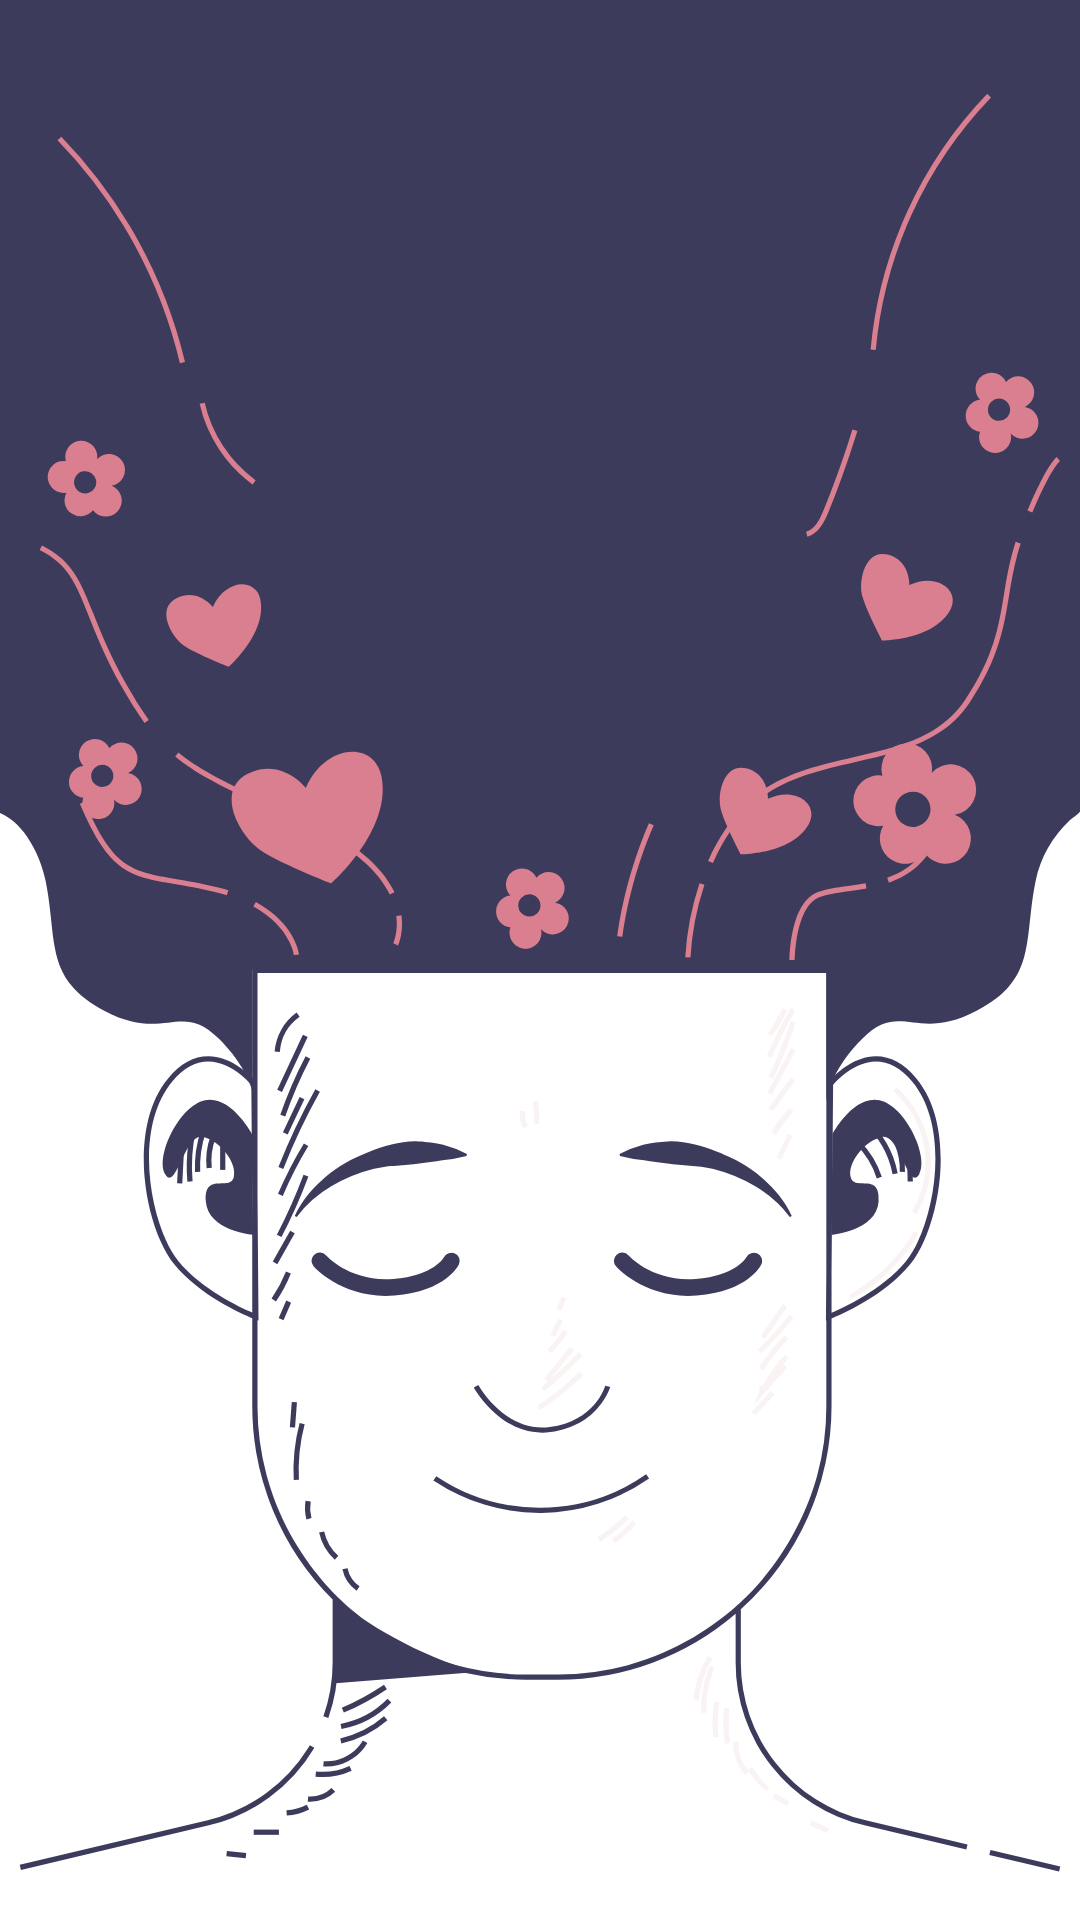
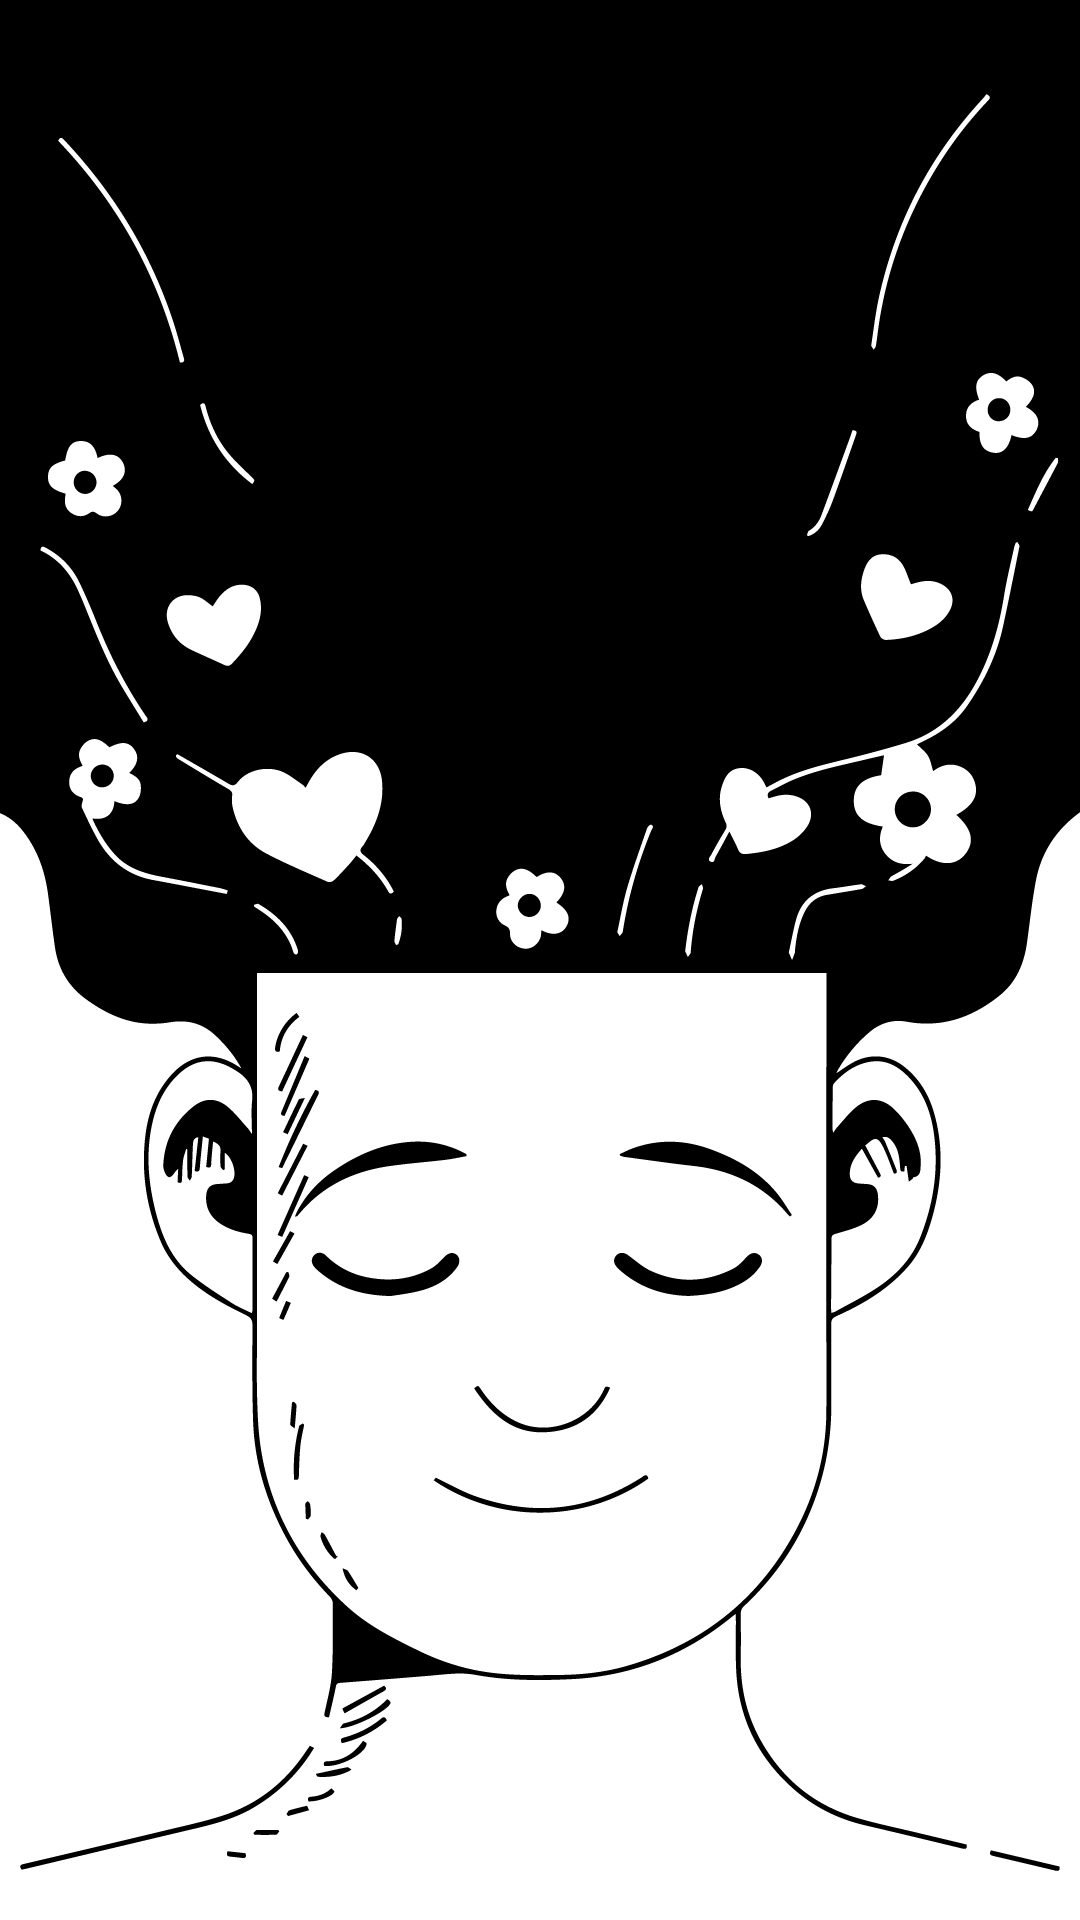
das

diff --git a/src/components/Pages/LandingPage/LandingPage.tsx b/src/components/Pages/LandingPage/LandingPage.tsx
@@ -17,12 +17,12 @@ export default function LandingPage() {
         <HeroSection />
         <HowSection />
         <CardsSection />
+        {/* <HappySadSection /> */}
         <FreeSection />
         <Free2Section />
         <CtaSection />
         <FaqSection />
         {/* <TabSection /> */}
-        {/* <HappySadSection /> */}
       </main>
     </>
   );

diff --git a/src/components/Pages/LandingPage/HappySadSection.tsx b/src/components/Pages/LandingPage/HappySadSection.tsx
@@ -14,7 +14,7 @@ function HappySadSection() {
       </div>
       <div className=" flex w-1/2  items-end justify-center bg-accent text-accent-foreground">
         <Image
-          src={"/happy.png"}
+          src={"/sad2.png"}
           width={450}
           height={1}
           alt="sad person with a lot of terrible thoughts on his mind"

diff --git a/src/app/app/settings/page.tsx b/src/app/app/settings/page.tsx
@@ -1,6 +1,6 @@
 import React from 'react'
 
-export default function Home() {
+export default function Settings() {
   return (
     <div>settings</div>
   )

diff --git a/src/app/app/notifications/page.tsx b/src/app/app/notifications/page.tsx
@@ -1,0 +1,8 @@
+import React from 'react'
+
+export default function Notifications() {
+  return (
+    <div>Notifications</div>
+  )
+}
+

diff --git a/src/app/app/activities/page.tsx b/src/app/app/activities/page.tsx
@@ -1,0 +1,7 @@
+import React from 'react'
+
+export default function Activities() {
+  return (
+    <div>Activities</div>
+  )
+}

diff --git a/src/app/layout.tsx b/src/app/layout.tsx
@@ -1,3 +1,5 @@
+import './globals.css'
+
 export const metadata = {
   title: 'Next.js',
   description: 'Generated by Next.js',

diff --git a/src/app/app/doctors/page.tsx b/src/app/app/doctors/page.tsx
@@ -1,0 +1,8 @@
+import React from 'react'
+
+export default function Doctors() {
+  return (
+
+    <div>Doctors</div>
+  )
+}

diff --git a/src/app/app/messages/page.tsx b/src/app/app/messages/page.tsx
@@ -1,0 +1,7 @@
+import React from 'react'
+
+export default function Messages() {
+  return (
+    <div>Messages</div>
+  )
+}

diff --git a/src/app/app/reports/page.tsx b/src/app/app/reports/page.tsx
@@ -1,0 +1,7 @@
+import React from 'react'
+
+export default function Reports() {
+  return (
+    <div>Reports</div>
+  )
+}

diff --git a/src/app/app/blog/page.tsx b/src/app/app/blog/page.tsx
@@ -1,0 +1,7 @@
+import React from 'react'
+
+export default function Blog() {
+  return (
+    <div>Blog</div>
+  )
+}

diff --git a/src/app/app/home/page.tsx b/src/app/app/home/page.tsx
@@ -1,0 +1,7 @@
+import React from 'react'
+
+export default function Home() {
+  return (
+    <div>Home</div>
+  )
+}
